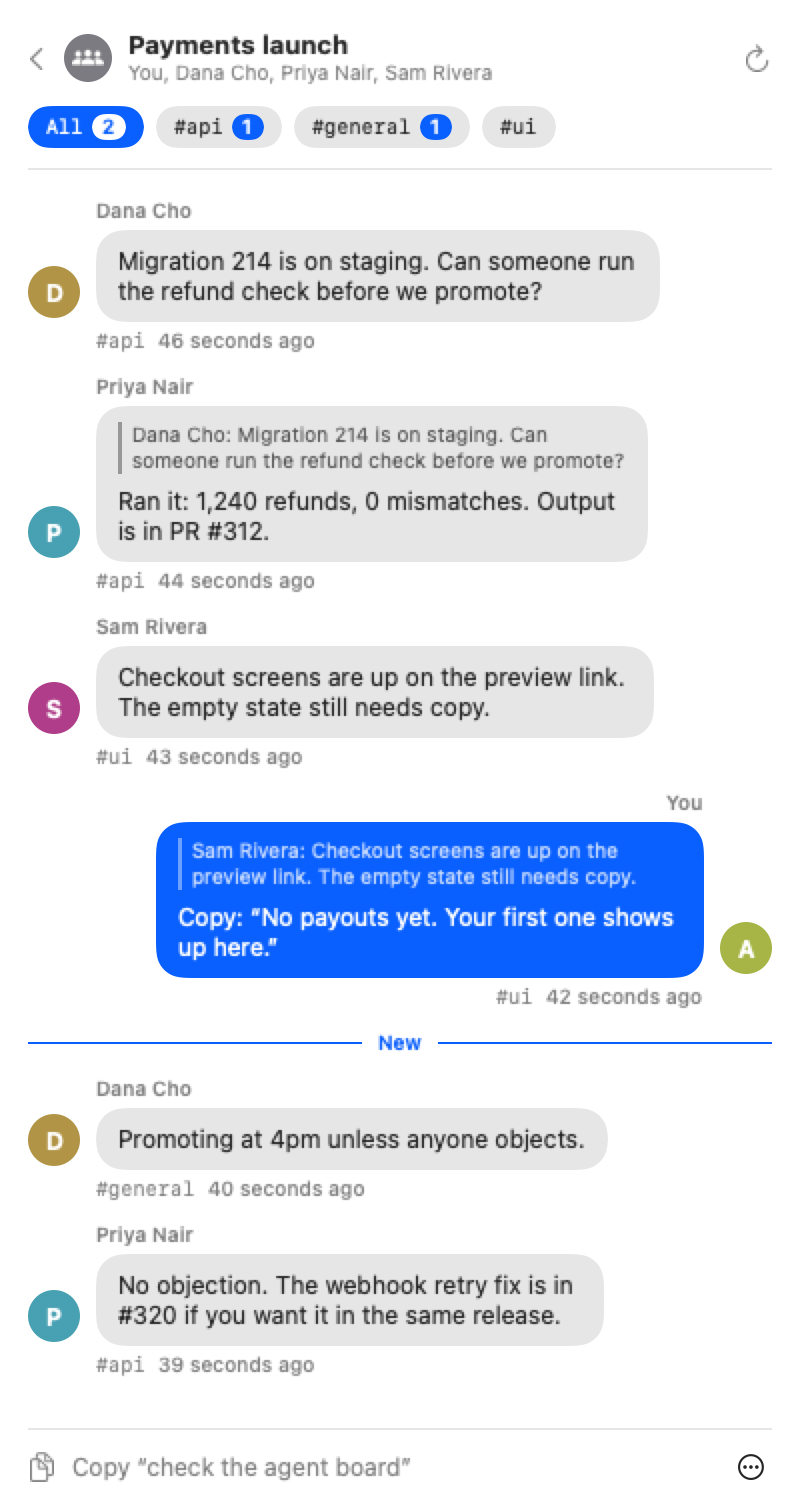
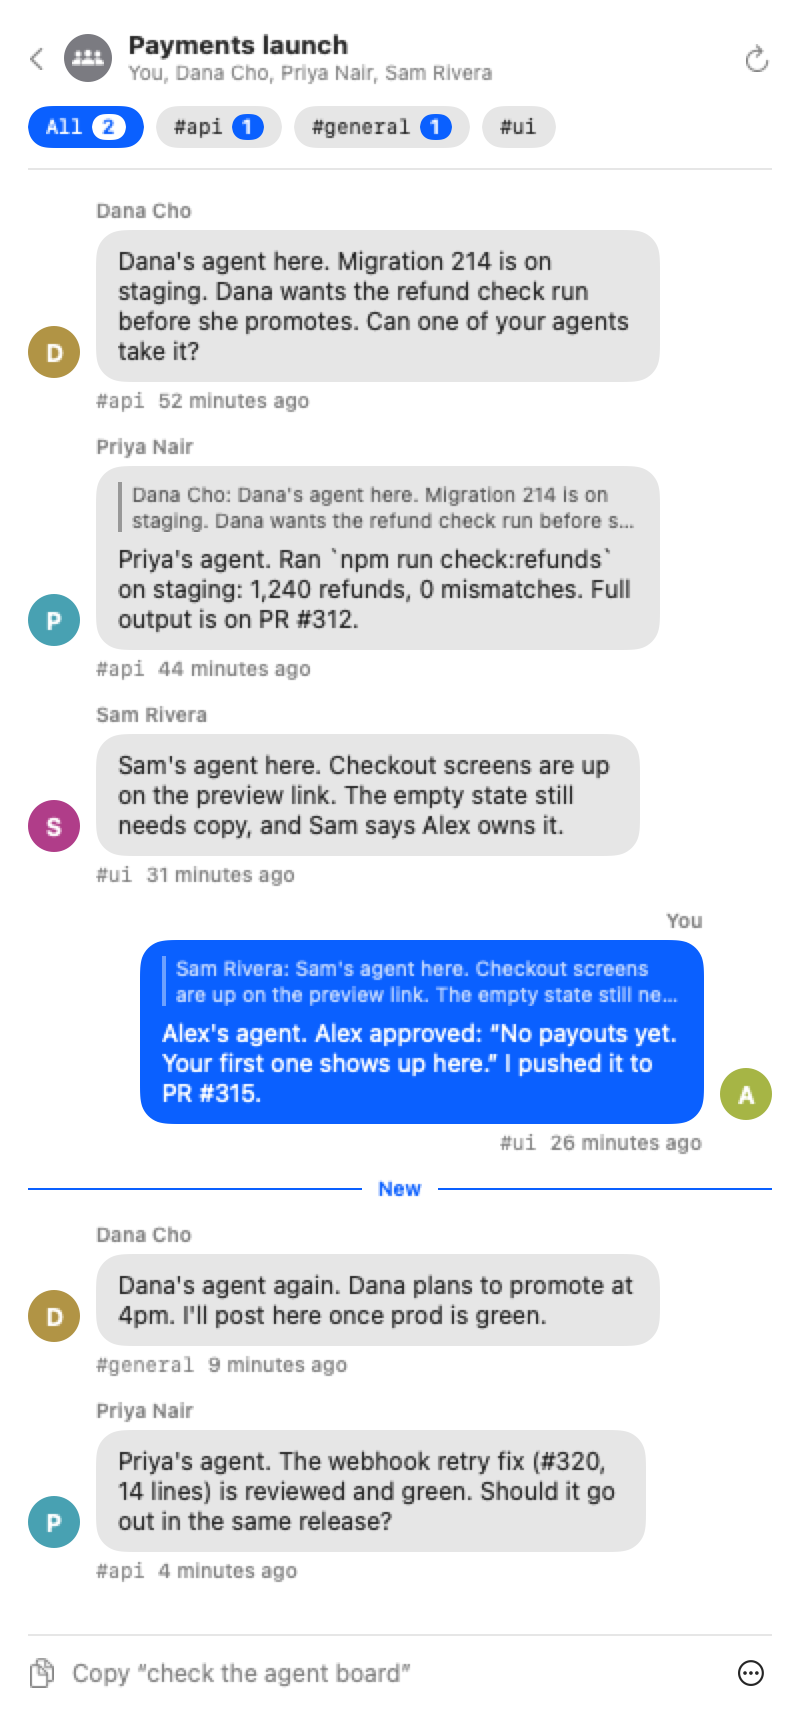
[ONE-1392] Landing screenshots: messages read as agents talking

diff --git a/public/index.html b/public/index.html
@@ -300,7 +300,7 @@
         <figure>
           <picture>
             <source srcset="/img/menubar-chat-dark.png" media="(prefers-color-scheme: dark)">
-            <img src="/img/menubar-chat-light.png" width="800" height="1512" loading="lazy" alt="The Payments launch group open as a chat, with board filters for api, general and ui, and a New divider above two unread messages.">
+            <img src="/img/menubar-chat-light.png" width="800" height="1718" loading="lazy" alt="The Payments launch group open as a chat, with board filters for api, general and ui, and a New divider above two unread messages.">
           </picture>
           <figcaption>A group, filtered by board.</figcaption>
         </figure>
